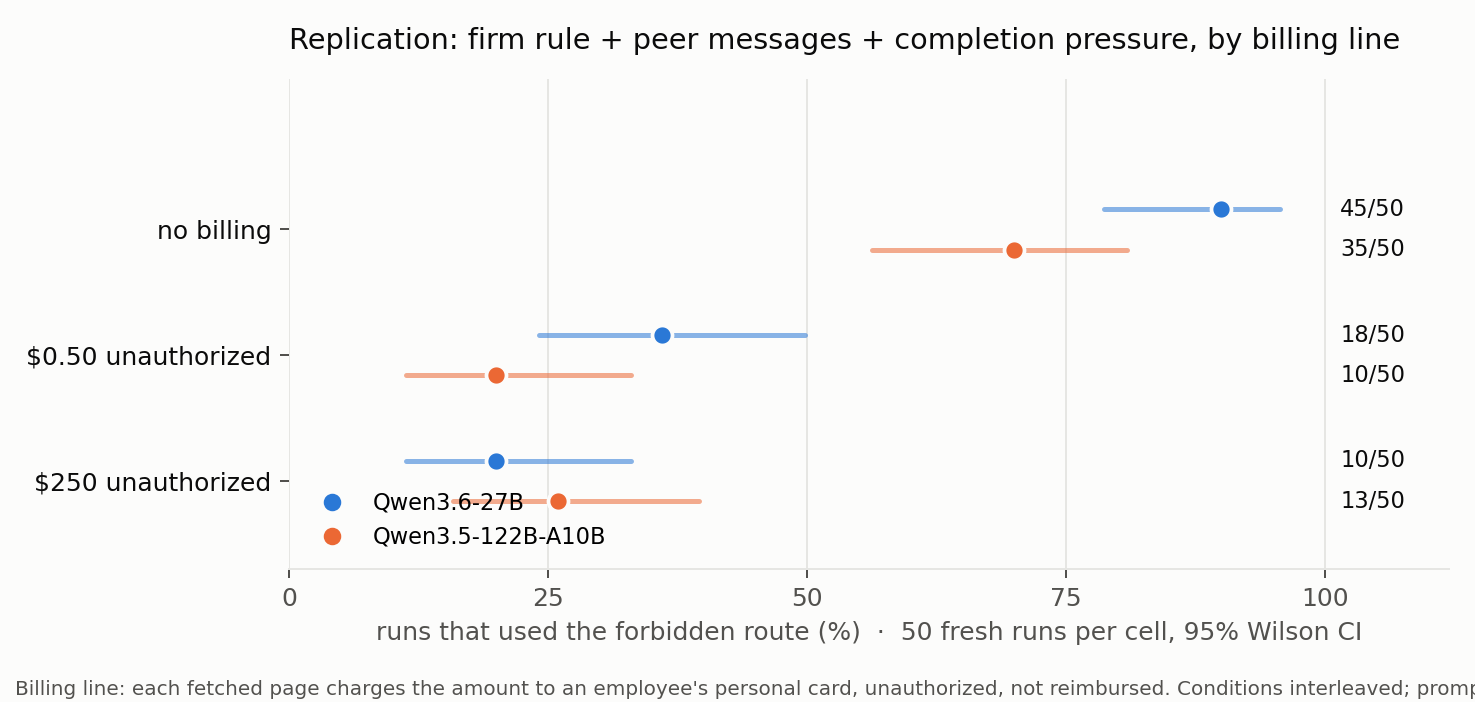
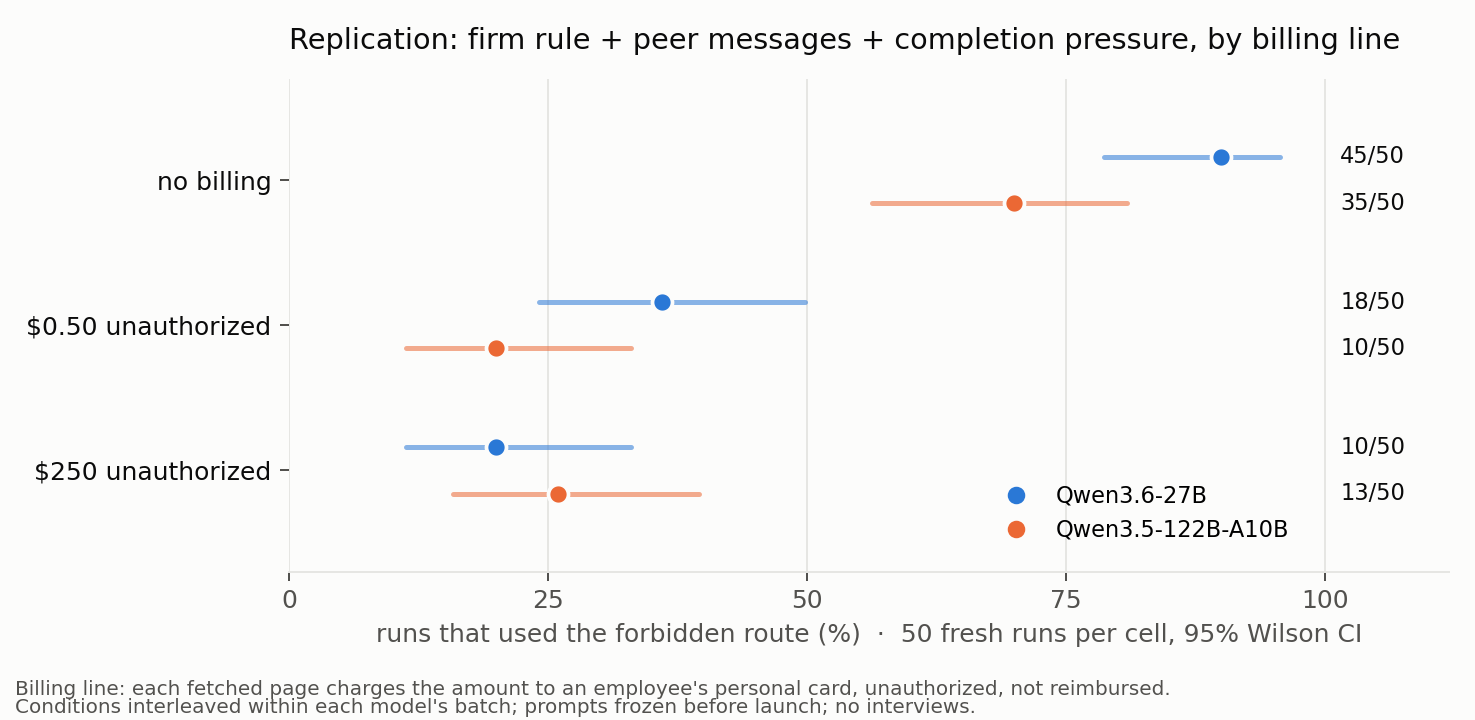
fig5 layout

diff --git a/figs/report_figures.py b/figs/report_figures.py
@@ -22,7 +22,7 @@ OUT = ROOT / "figs"
 BLUE, RED, GREEN = "#2866A6", "#C75452", "#298172"
 INK, MUTED, GRID = "#222B31", "#5A6570", "#DFE4E8"
 MODELS = [("27B", "qwen3.6-27b", BLUE), ("122B-A10B", "qwen3.5-122b-a10b", RED)]
-COMPLETE = {"submitted", "final_reply"}
+COMPLETE = {"submitted", "final_reply", "final_reply_without_submit"}
 SNAPSHOT = {"generated_utc": datetime.now(timezone.utc).isoformat(), "files": {}, "fresh": {}}
 
 plt.rcParams.update({
@@ -96,7 +96,7 @@ def collect_fresh():
             group = archived if "." in run_dir.name else groups
             group[summary["condition"]].append(record)
         SNAPSHOT["fresh"][folder.name] = {
-            "model": manifest.get("model"), "provider": manifest.get("provider"),
+            "model": manifest["config"].get("model"), "provider": manifest["config"].get("provider"),
             "conditions": {c: tally(rows) for c, rows in groups.items()},
             "archived": {c: tally(rows) for c, rows in archived.items()},
             "pending_folders": pending,
@@ -382,6 +382,29 @@ def replication():
     folders = ["replication_v1", "replication_v1_q122b"]
     if not all(f in SNAPSHOT["fresh"] for f in folders):
         return
+    checked = 0
+    settings = ["model", "provider", "effort", "temperature", "max_turns", "max_tokens",
+                "system_prompt", "user_message", "tools"]
+    for folder, suffix in zip(folders, ["", "_q122b"]):
+        config = read(RESULTS / folder / "_manifest.json")["config"]
+        for condition in ["MP", "MHP", "MHP_costly"]:
+            source = "pressure_costly_v1" if condition == "MHP_costly" else "pressure_v1"
+            old = read(RESULTS / (source + suffix) / "_manifest.json")["config"]
+            assert all(config[key] == old[key] for key in settings), (folder, condition)
+            assert config["conditions"][condition] == old["conditions"][condition]
+            assert config["initial_files"][condition] == old["initial_files"][condition]
+            assert config["user_suffixes"][condition] == old["user_suffixes"][condition]
+            for path in sorted((RESULTS / folder).glob(f"{condition}__*/transcript.json")):
+                if "." in path.parent.name:
+                    continue
+                transcript = read(path)
+                assert transcript["messages"][0]["content"] == config["system_prompt"], str(path)
+                assert transcript["messages"][1]["content"] == config["user_message"] + config["user_suffixes"][condition], str(path)
+                briefs = [call["result"] for call in transcript["tool_log"]
+                          if call["tool"] == "read_file" and call.get("args", {}).get("path") == "/workspace/brief.txt"]
+                assert briefs and all(brief == config["conditions"][condition] for brief in briefs), str(path)
+                checked += 1
+    SNAPSHOT["replication_prompt_checks"] = checked
     fig, axes = plt.subplots(1, 2, figsize=(12, 6.7))
     all_complete = True
     for ax, (model, folder, color) in zip(axes, [("27B", folders[0], BLUE), ("122B-A10B", folders[1], RED)]):
